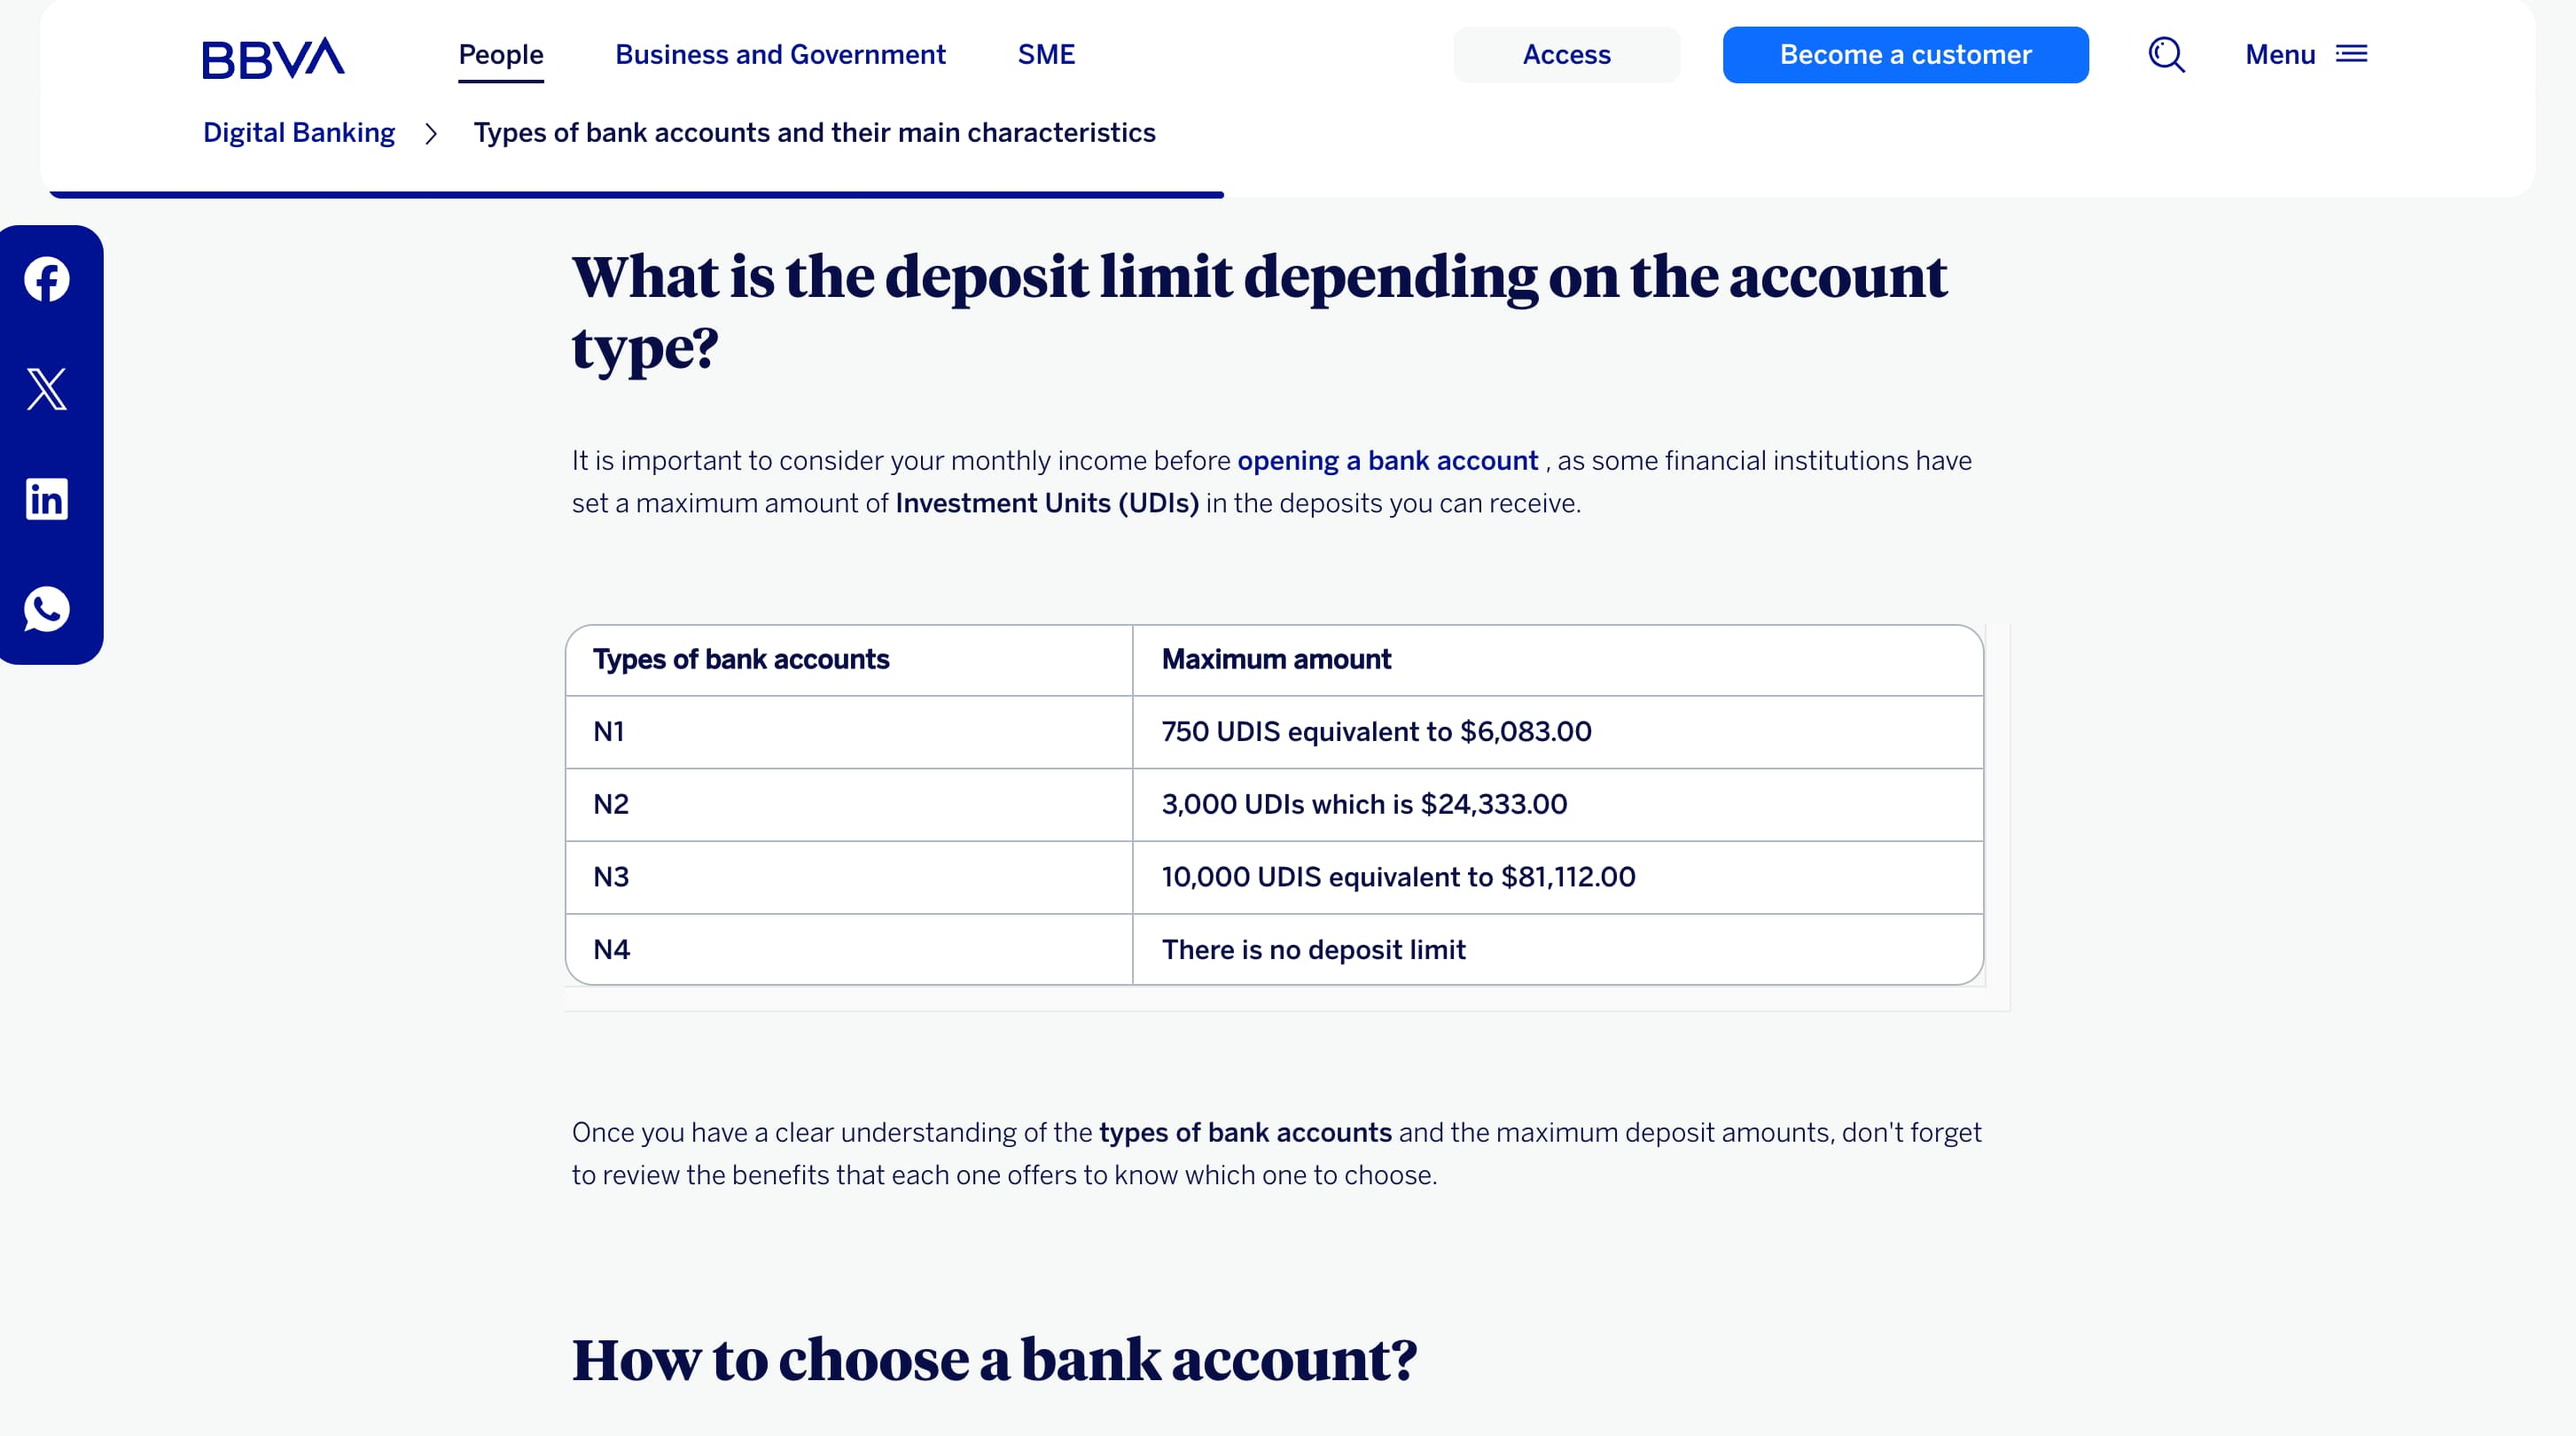
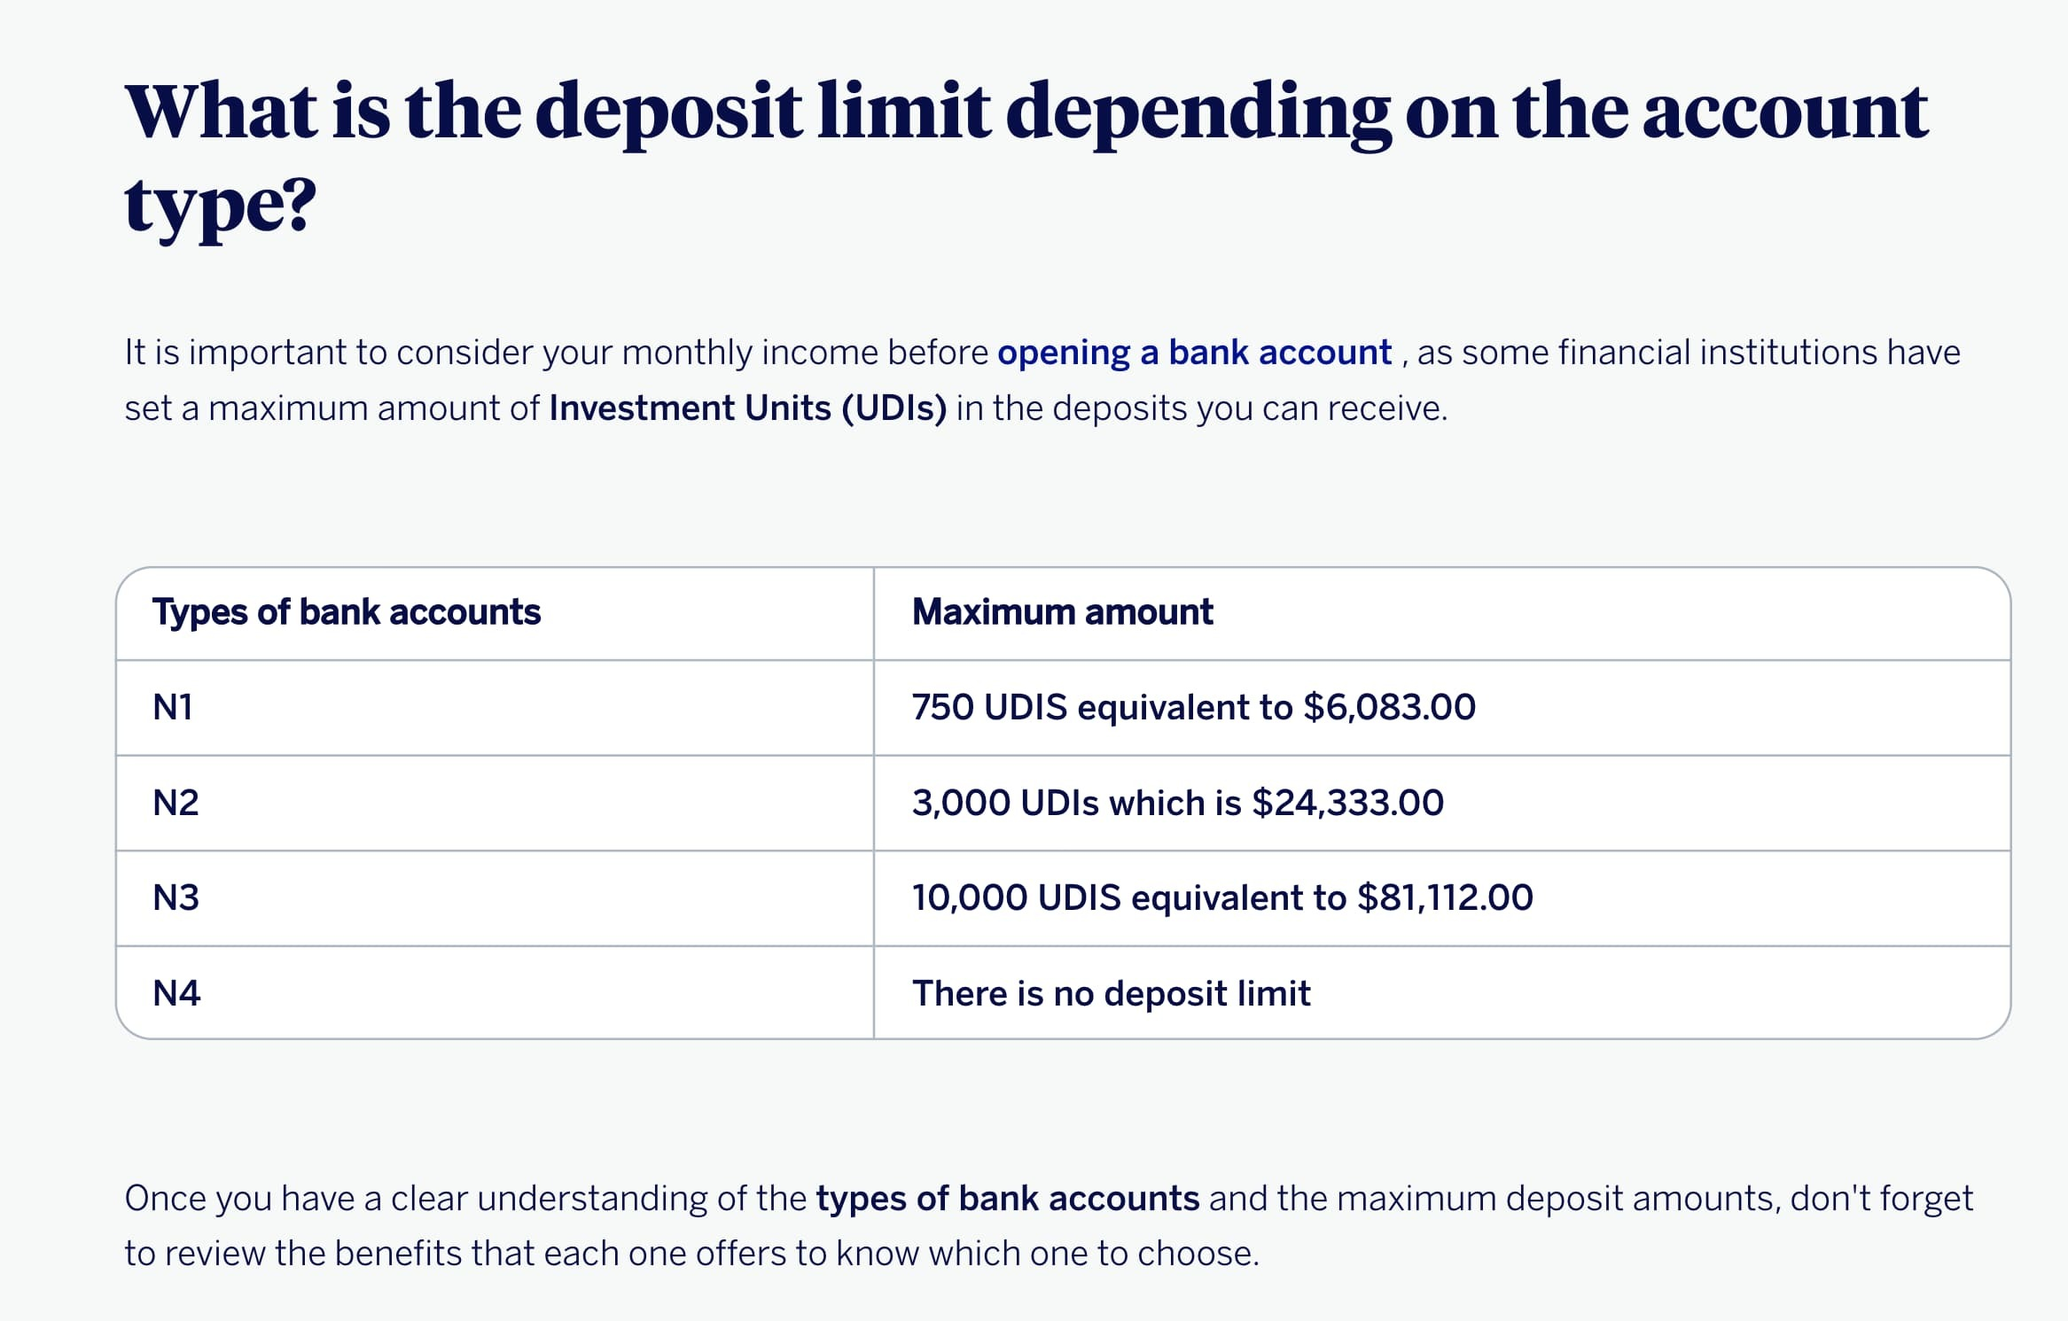
feat: add figcaption

diff --git a/components/content/MdxVideo.tsx b/components/content/MdxVideo.tsx
@@ -1,3 +1,4 @@
+import { MdxFigcaption } from "./MdxFigcaption"
 import { imageSize } from "image-size";
 import { imageSlots } from "@/lib/image-slots";
 import path from "node:path";
@@ -8,16 +9,21 @@ type MdxVideoProps = {
     variant: keyof typeof imageSlots.video;
     poster: string;
     caption?: string;
+    sourceLabel?: string;
+    sourceHref?: string;
+    label: string;
 };
 
-export function MdxVideo({src, variant, poster, caption}: Readonly<MdxVideoProps>){
+export function MdxVideo({src, variant, poster, caption, sourceLabel, sourceHref, label}: Readonly<MdxVideoProps>){
+    if (!label) throw new Error(`MdxVideo: missing label for ${src}`);
+    
     const { width, height } = imageSize(readFileSync(path.join(process.cwd(), "public", poster)));
     const { maxWidthClass } = imageSlots.video[variant];
     
     return (
         <figure className="not-prose flex flex-col gap-2 items-center my-8">
           <video
-            aria-label="Demo walkthrough"
+            aria-label={label}
             controls
             preload="none"
             playsInline
@@ -26,12 +32,8 @@ export function MdxVideo({src, variant, poster, caption}: Readonly<MdxVideoProps
             width={width}
             height={height}
             className={`h-auto rounded-xl ${maxWidthClass}`}
-          />
-          {caption && (
-            <figcaption className="font-mono text-xs text-ink-faint text-center">
-                {caption}
-            </figcaption>
-          )}
+            />
+          <MdxFigcaption caption={caption} sourceLabel={sourceLabel} sourceHref={sourceHref} />
         </figure>
     )
 }

diff --git a/components/content/MdxImageRow.tsx b/components/content/MdxImageRow.tsx
@@ -1,3 +1,4 @@
+import { MdxFigcaption } from "./MdxFigcaption"
 import NextImage from "next/image";
 import type { ReactNode } from "react";
 import { imageSize } from "image-size";
@@ -9,11 +10,13 @@ type MdxImageRowProps = {
   src: string;
   alt: string;
   caption?: string;
+  sourceLabel?: string;
+  sourceHref?: string;
   side?: "left" | "right";
   children: ReactNode;
 };
 
-export function MdxImageRow({ src, alt, caption, side = "left", children }: Readonly<MdxImageRowProps>) {
+export function MdxImageRow({ src, alt, caption, sourceLabel, sourceHref, side = "left", children }: Readonly<MdxImageRowProps>) {
   const filePath = path.join(process.cwd(), "public", src);
   const { width, height } = imageSize(readFileSync(filePath));
   const { maxWidthClass, sizes } = imageSlots.body.screenshotMobile;
@@ -33,11 +36,7 @@ export function MdxImageRow({ src, alt, caption, side = "left", children }: Read
           height={height}
           className={`w-full ${maxWidthClass} h-auto mx-auto rounded-xl`}
         />
-        {caption && (
-          <figcaption className="font-mono text-xs text-ink-faint text-center">
-            {caption}
-          </figcaption>
-        )}
+        <MdxFigcaption caption={caption} sourceLabel={sourceLabel} sourceHref={sourceHref} />
       </figure>
       <div className="font-body text-base text-ink-soft leading-relaxed sm:w-3/5">
         {children}

diff --git a/components/content/MdxImage.tsx b/components/content/MdxImage.tsx
@@ -1,3 +1,4 @@
+import { MdxFigcaption } from "./MdxFigcaption"
 import NextImage from "next/image";
 import { imageSize } from "image-size";
 import { imageSlots } from "@/lib/image-slots";
@@ -9,9 +10,11 @@ type MdxImageProps = {
   alt: string;
   variant: keyof typeof imageSlots.body;
   caption?: string;
+  sourceLabel?: string;
+  sourceHref?: string;
 };
 
-export function MdxImage({ src, alt, variant, caption }: Readonly<MdxImageProps>) {
+export function MdxImage({ src, alt, variant, caption, sourceLabel, sourceHref }: Readonly<MdxImageProps>) {
   const filePath = path.join(process.cwd(), "public", src);
   const { width, height } = imageSize(readFileSync(filePath));
   const { maxWidthClass, sizes } = imageSlots.body[variant];
@@ -26,11 +29,7 @@ export function MdxImage({ src, alt, variant, caption }: Readonly<MdxImageProps>
         height={height}
         className={`h-auto rounded-xl ${maxWidthClass}`}
       />
-      {caption && (
-        <figcaption className="font-mono text-xs text-ink-faint text-center">
-          {caption}
-        </figcaption>
-      )}
+      <MdxFigcaption caption={caption} sourceLabel={sourceLabel} sourceHref={sourceHref} />
     </figure>
   );
 }

diff --git a/components/content/MdxFigcaption.tsx b/components/content/MdxFigcaption.tsx
@@ -1,0 +1,18 @@
+export function MdxFigcaption({ caption, sourceLabel, sourceHref }: Readonly<{
+  caption?: string; sourceLabel?: string; sourceHref?: string;
+}>) {
+  if (!caption && !sourceHref) return null;
+  return (
+    <figcaption className="font-mono text-xs text-ink-faint text-center">
+      {caption}
+      {sourceHref && (
+        <div className="mt-1">
+          <a href={sourceHref} target="_blank" rel="noopener noreferrer"
+             className="text-accent hover:underline">
+            {sourceLabel ?? "Source"}
+          </a>
+        </div>
+      )}
+    </figcaption>
+  );
+}
